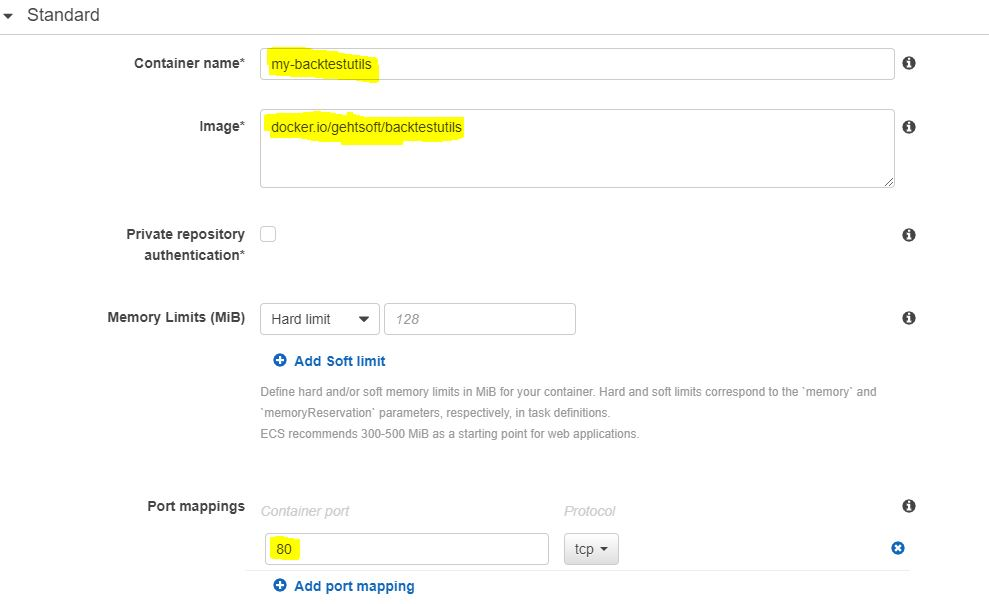
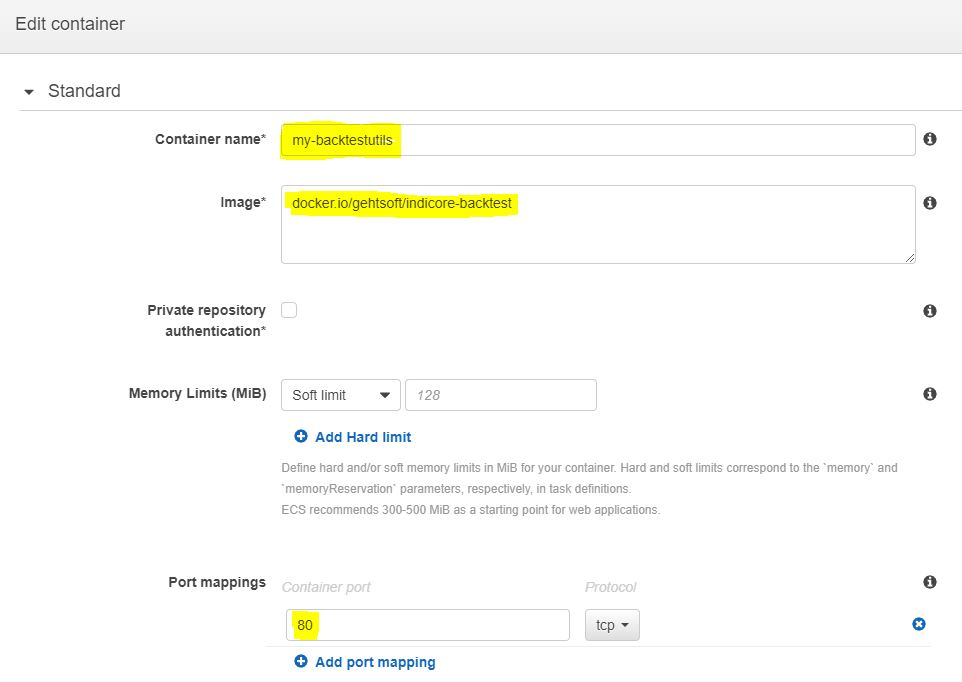
update cloud manuals

diff --git a/GoogleCloud/README.md b/GoogleCloud/README.md
@@ -7,7 +7,7 @@ There is a step-by-step guide how to deploy the indicore backtester image in Goo
 ![NewVM](img/NewVM.JPG)
 3. Set Name, Machine type (f1-micro is enough)  
 ![VMName](img/VMName.JPG)
-4. Choose "Deploy a container image to this VM instance", enter Container image - docker.io/gehtsoft/backtestutils, choose "Allow HTTP traffic" and press "Create" button  
+4. Choose "Deploy a container image to this VM instance", enter Container image - docker.io/gehtsoft/indicore-backtest, choose "Allow HTTP traffic" and press "Create" button  
 ![VMContainer](img/VMContainer.JPG)
 5. Wait till VM instance is created, and state changed to "Running". BacktestUtils REST API is available at External IP on port 80  
 ![ViewVM](img/ViewVM.JPG)

diff --git a/MicrosoftAzure/README.md b/MicrosoftAzure/README.md
@@ -7,7 +7,7 @@ There is a step-by-step guide how to deploy the indicore backtester image in Mic
 ![NewService](img/NewService.JPG)
 3. Set Subscription, Resource Group (create new if neccessary), Name, Publish - Docker Image, Operating system - Linux, App Service Plan (F1 is enough), then press "Next: Docker" button  
 ![ServiceName](img/ServiceName.JPG)
-4. Choose Image Source - Docker Hub, Image and tag - gehtsoft/backtestutils, then press "Review and create" button  
+4. Choose Image Source - Docker Hub, Image and tag - gehtsoft/indicore-backtest, then press "Review and create" button  
 ![ServiceContainer](img/ServiceContainer.JPG)
 5. Press "Create" button  
 ![CreateService](img/CreateService.JPG)

diff --git a/AWS/README.md b/AWS/README.md
@@ -21,7 +21,7 @@ There is a step-by-step guide how to deploy the indicore backtester image in AWS
 ![TaskName](img/TaskName.JPG)
 10. Set Task memory and Task CPU then press "Add container" button
 ![TaskResources](img/TaskResources.JPG)
-11. Set the container name (could be any name), Image docker.io/gehtsoft/backtestutils and Port mappings 80  
+11. Set the container name (could be any name), Image docker.io/gehtsoft/indicore-backtest and Port mappings 80  
 ![ContainerSettings](img/ContainerSettings.JPG)
 12. Set any other parameters if needed
 13. Press "Add" button  
